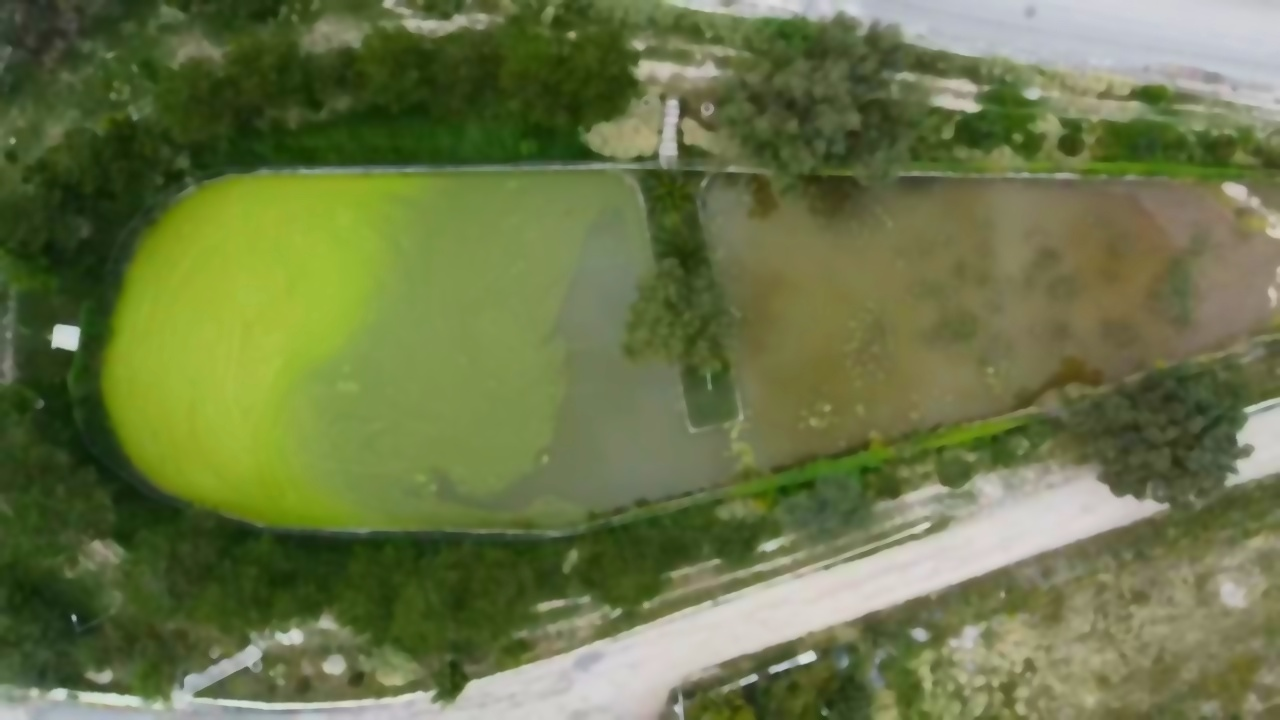
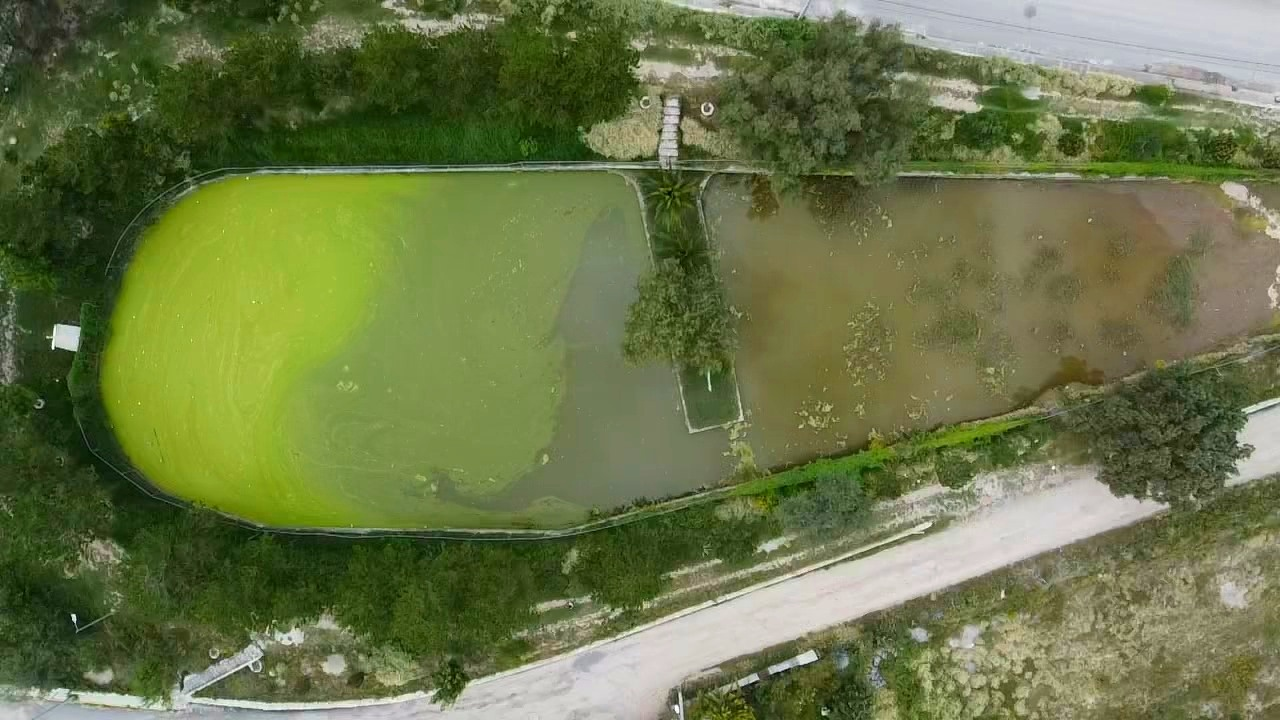
colores prueba 3

diff --git a/Back-End/Python Preprocesamiento/Elegir_color.py b/Back-End/Python Preprocesamiento/Elegir_color.py
@@ -1,81 +1,73 @@
 import cv2
 import numpy as np
 import sys
+import subprocess
 
+# Verificar y capturar argumentos de línea de comandos
 if len(sys.argv) > 3:
-    respuestas_colores = int(sys.argv[1])
-    respuestas_tamano = sys.argv[2]
-    ruta_imagen = sys.argv[3]
+    respuestas_colores = int(sys.argv[1])  # Cantidad de rangos de colores a seleccionar
+    respuestas_tamano = sys.argv[2]        # Tamaño del objeto de referencia (no utilizado en este código)
+    ruta_imagen = sys.argv[3]              # Ruta de la imagen a procesar
 else:
     print("No se proporcionaron argumentos suficientes.")
     sys.exit(1)
 
-# Cargar la imagen
-imagen = cv2.imread(ruta_imagen)
-if imagen is None:
-    print("Error al cargar la imagen.")
-    sys.exit(1)
-
 # Lista para almacenar los rangos de color en formato HSV
 rango_colores_hsv = []
+contador = 0
 
 # Variables globales para almacenar el color mínimo y máximo
 hsv_min = None
 hsv_max = None
 
-# Contador de rangos de colores seleccionados
-contador = 0
-
-# Cargar la imagen
-imagen = cv2.imread("C:/Users/jesus/Documents/TT2/Imagenes/jaguey.jpg")  # Reemplaza con la ruta de tu imagen
-if imagen is None:
-    print("Error al cargar la imagen.")
-    sys.exit(1)
-
-
+# Función para mostrar mensajes en la ventana de imagen
 def mostrar_mensaje(imagen, mensaje, duracion=1000):
     imagen_mensaje = imagen.copy()
     cv2.putText(imagen_mensaje, mensaje, (10, 30), cv2.FONT_HERSHEY_SIMPLEX, 1, (0, 255, 0), 2, cv2.LINE_AA)
     cv2.imshow("Selecciona los colores", imagen_mensaje)
-    cv2.waitKey(duracion)  # Mostrar el mensaje por un tiempo determinado
-
+    cv2.waitKey(duracion)
 
 # Función para manejar clics del mouse
 def seleccionar_color(event, x, y, flags, param):
     global hsv_min, hsv_max, contador, rango_colores_hsv
     if event == cv2.EVENT_LBUTTONDOWN:
-        # Obtén el color en el punto seleccionado
         color_bgr = imagen[y, x]
         color_hsv = cv2.cvtColor(np.uint8([[color_bgr]]), cv2.COLOR_BGR2HSV)[0][0]
 
         if hsv_min is None:
-            hsv_min = color_hsv  # Guarda el color mínimo
+            hsv_min = color_hsv
             print(f"Color mínimo seleccionado: {hsv_min}")
         elif hsv_max is None:
-            hsv_max = color_hsv  # Guarda el color máximo
-            print(f"Color máximo seleccionado: {hsv_max}")
-            # Agrega el rango seleccionado a la lista
-            rango_colores_hsv.append((hsv_min, hsv_max))
+            hsv_max = color_hsv
+            rango_colores_hsv.append((hsv_min.tolist(), hsv_max.tolist()))
+            print(f"Rango {contador + 1} guardado: Min = {hsv_min}, Max = {hsv_max}")
             contador += 1
-
-            # Mostrar mensaje en la ventana de imagen
             mostrar_mensaje(imagen, f"Rango {contador} guardado")
-
-            # Reinicia las variables para el siguiente rango
-            hsv_min, hsv_max = None, None
+            hsv_min, hsv_max = None, None  # Reiniciar para el siguiente rango
 
         if contador >= respuestas_colores:
-            print("Se han seleccionado todos los rangos de colores necesarios.")
             cv2.destroyAllWindows()
+            guardar_rangos()  # Llamar a la función para guardar los rangos
 
-# Configura la ventana y la función de clic
-cv2.namedWindow("Selecciona los colores")
+# Función para guardar los rangos en un archivo de texto
+def guardar_rangos():
+    with open("C:/Users/jesus/Documents/TT2/Back-End/Python Preprocesamiento/rangos_colores.txt", "w") as f:
+        for rango in rango_colores_hsv:
+            min_hsv = rango[0]
+            max_hsv = rango[1]
+            f.write(f"Min: {min_hsv}, Max: {max_hsv}\n")
+    
+    print("Rangos guardados en rangos_colores.txt")
+    subprocess.run(["python", "C:/Users/jesus/Documents/TT2/Back-End/Python Preprocesamiento/Filtrado y Saturacion.py", ruta_imagen])
+    
+# Cargar la imagen desde la ruta proporcionada y configurar la ventana
+imagen = cv2.imread(ruta_imagen)
+if imagen is None:
+    print(f"No se pudo cargar la imagen en la ruta: {ruta_imagen}")
+    sys.exit(1)
+
+cv2.imshow("Selecciona los colores", imagen)
 cv2.setMouseCallback("Selecciona los colores", seleccionar_color)
 
-# Muestra la imagen y espera las selecciones
-while contador < respuestas_colores:
-    cv2.imshow("Selecciona los colores", imagen)
-    if cv2.waitKey(1) & 0xFF == 27:  # Presiona 'Esc' para salir
-        break
-
+cv2.waitKey(0)
 cv2.destroyAllWindows()

diff --git a/Back-End/Python Preprocesamiento/Filtrado y Saturacion.py b/Back-End/Python Preprocesamiento/Filtrado y Saturacion.py
@@ -1,61 +1,37 @@
 import cv2
 import numpy as np
-import tkinter as tk
-from tkinter import filedialog
+import sys
+import subprocess
 
-# Crear una ventana oculta de tkinter
-root = tk.Tk()
-root.withdraw()  # Ocultar la ventana principal
-
-# Abrir el diálogo para seleccionar una imagen
-ruta_imagen = filedialog.askopenfilename(title='Selecciona una imagen', 
-                                         filetypes=[('Archivos de imagen', '*.jpg *.jpeg *.png *.bmp *.tiff')])
-
-# Verificar si se seleccionó una imagen
-if ruta_imagen:
-    # Cargar la imagen seleccionada usando OpenCV
-    imagen = cv2.imread(ruta_imagen)
-
-    if imagen is not None:
-        # Aplicar el filtro de desenfoque gaussiano
-        for i in range(10):
-            imagen_G = cv2.GaussianBlur(imagen, (5, 5), 0)
-            imagen_MB = cv2.medianBlur(imagen_G, 5)
-            imagen_B = cv2.bilateralFilter(imagen_MB, d=9, sigmaColor=75, sigmaSpace=75)
-    
-        # Convertir la imagen de BGR a HSV
-        imagen_hsv = cv2.cvtColor(imagen_B, cv2.COLOR_BGR2HSV)
-
-        # Multiplicar el canal de saturación por un factor para aumentarlo
-        factor_saturacion = 1.5  # Puedes ajustar este valor
-        imagen_hsv[:, :, 1] = np.clip(imagen_hsv[:, :, 1] * factor_saturacion, 0, 255)
-        
-        # Convertir la imagen de vuelta a BGR
-        imagen_saturada = cv2.cvtColor(imagen_hsv, cv2.COLOR_HSV2BGR)
-
-        # Crear ventanas con un tamaño personalizado
-        cv2.namedWindow('Imagen original', cv2.WINDOW_NORMAL)
-        cv2.resizeWindow('Imagen original', 600, 400)  # Cambia las dimensiones a tu gusto
-
-        cv2.namedWindow('Imagen Filtrada', cv2.WINDOW_NORMAL)
-        cv2.resizeWindow('Imagen Filtrada', 600, 400)  # Cambia las dimensiones a tu gusto
-
-        cv2.namedWindow('Imagen Saturada', cv2.WINDOW_NORMAL)
-        cv2.resizeWindow('Imagen Saturada', 600, 400)  # Cambia las dimensiones a tu gusto
-
-        # Mostrar las imágenes en las ventanas con el tamaño especificado
-        cv2.imshow('Imagen original', imagen)
-        cv2.imshow('Imagen Filtrada', imagen_B)
-        cv2.imshow('Imagen Saturada', imagen_saturada)
-        cv2.imwrite('C:/Users/jesus/Documents/TT2/Imagenes/ImagenFiltrada.jpg', imagen_B)
-        cv2.imwrite('C:/Users/jesus/Documents/TT2/Imagenes/ImagenSaturada.jpg', imagen_saturada)
-
-
-
-        # Esperar a que se cierre la ventana
-        cv2.waitKey(0)
-        cv2.destroyAllWindows()
-    else:
-        print("No se pudo cargar la imagen.")
+# Verificar que se reciben los argumentos
+if len(sys.argv) > 1:
+    ruta_imagen = sys.argv[1]
 else:
-    print("No se seleccionó ninguna imagen.")
+    print("No se proporcionaron argumentos.")
+    sys.exit(1)
+
+imagen=cv2.imread(ruta_imagen)
+
+for i in range(10):
+    imagen_G = cv2.GaussianBlur(imagen, (5, 5), 0)
+    imagen_MB = cv2.medianBlur(imagen_G, 5)
+    imagen_B = cv2.bilateralFilter(imagen_MB, d=9, sigmaColor=75, sigmaSpace=75)
+
+# Cargar y procesar la imagen (operaciones de filtrado y saturación)
+imagen = cv2.imread(ruta_imagen)
+if imagen is None:
+    print(f"No se pudo cargar la imagen en la ruta: {ruta_imagen}")
+    sys.exit(1)
+
+# Aplicar operaciones de filtrado (como ejemplo, aquí puedes aplicar filtros)
+imagen_hsv = cv2.cvtColor(imagen, cv2.COLOR_BGR2HSV)
+factor_saturacion = 1.5
+imagen_hsv[:, :, 1] = np.clip(imagen_hsv[:, :, 1] * factor_saturacion, 0, 255)
+imagen_saturada = cv2.cvtColor(imagen_hsv, cv2.COLOR_HSV2BGR)
+
+# Guardar la imagen saturada
+ruta_imagen_saturada = 'C:/Users/jesus/Documents/TT2/Imagenes/ImagenSaturada.jpg'
+cv2.imwrite(ruta_imagen_saturada, imagen_saturada)
+
+# Llamar a Detencion de color.py con la imagen saturada y los rangos HSV
+subprocess.run(["python", "C:/Users/jesus/Documents/TT2/Back-End/Python Preprocesamiento/Deteccion de color.py", ruta_imagen])

diff --git a/Back-End/Python Preprocesamiento/Deteccion de color.py b/Back-End/Python Preprocesamiento/Deteccion de color.py
@@ -1,44 +1,64 @@
-import cv2 
+import cv2
 import numpy as np
+import sys
 
-# Cargar la imagen
-img = cv2.imread("C:/Users/jesus/Documents/TT2/Imagenes/imagenSaturada.jpg")
+# Verificar y capturar argumentos
+if len(sys.argv) > 1:
+    ruta_imagen_saturada = sys.argv[1]
+else:
+    print("No se proporcionaron argumentos suficientes.")
+    sys.exit(1)
+
+# Cargar la imagen saturada
+img = cv2.imread(ruta_imagen_saturada)
+if img is None:
+    print(f"No se pudo cargar la imagen en la ruta: {ruta_imagen_saturada}")
+    sys.exit(1)
 
 # Convertir la imagen a HSV
 img_hsv = cv2.cvtColor(img, cv2.COLOR_BGR2HSV)
 
-# Rango para los marrones (entre rojos y amarillos)
-umbral_bajo_marron = np.array([10, 50, 50])   # Ajusta los valores para tonos marrones claros y oscuros
-umbral_alto_marron = np.array([30, 255, 255])
+# Leer los colores desde el archivo
+colores_hsv = []
+try:
+    with open("C:/Users/jesus/Documents/TT2/Back-End/Python Preprocesamiento/rangos_colores.txt", "r") as f:
+        for line in f:
+            line = line.strip()
+            if not line:
+                continue  # Saltar líneas vacías
+            # Extraer el color mínimo del rango
+            try:
+                min_part = line.split("], Max: ")[0]
+                color_hsv = min_part.split(": ")[1].strip()[1:-1].split(", ")
+                # Agregar el color como un array de NumPy
+                colores_hsv.append(np.array([int(x) for x in color_hsv]))
+            except (IndexError, ValueError) as e:
+                print(f"Línea mal formateada: {line}. Error: {e}")
+                continue  # Saltar la línea si hay un error
 
-# Rango para los verdes claros (Hue en el rango de los verdes, pero con alto valor y saturación)
-umbral_bajo_verde_claro = np.array([36, 100, 150])  # Más saturados y con mayor brillo
-umbral_alto_verde_claro = np.array([85, 255, 255])  # Mantiene el rango de verde, pero excluye los oscuros
+except FileNotFoundError:
+    print("El archivo rangos_colores.txt no se encontró.")
+    sys.exit(1)
+except Exception as e:
+    print(f"Error inesperado al procesar el archivo de colores: {e}")
+    sys.exit(1)
 
-# Crear la máscara para los verdes claros
-mask_verde_claro = cv2.inRange(img_hsv, umbral_bajo_verde_claro, umbral_alto_verde_claro)
-
-# Crear la máscara para los marrones
-mask_marron = cv2.inRange(img_hsv, umbral_bajo_marron, umbral_alto_marron)
-
-# Combinar las máscaras (mantener marrones y verdes claros)
-mask_total = cv2.bitwise_or(mask_marron, mask_verde_claro)
+# Crear una máscara combinada para los colores
+mask_total = None
+for color in colores_hsv:
+    # Definir un rango alrededor del color seleccionado (puedes ajustar la tolerancia)
+    tolerancia = 10
+    hsv_min = np.clip(color - tolerancia, 0, 255)
+    hsv_max = np.clip(color + tolerancia, 0, 255)
+    mask = cv2.inRange(img_hsv, hsv_min, hsv_max)
+    mask_total = mask if mask_total is None else cv2.bitwise_or(mask_total, mask)
 
 # Aplicar la máscara a la imagen original
 resultado = cv2.bitwise_and(img, img, mask=mask_total)
 
-# Crear ventanas con un tamaño personalizado
-cv2.namedWindow('Original', cv2.WINDOW_NORMAL)
-cv2.resizeWindow('Original', 600, 400)
-
-cv2.namedWindow('Resultado', cv2.WINDOW_NORMAL)
-cv2.resizeWindow('Resultado', 600, 400)
-
-# Mostrar las imágenes original y resultante
+# Mostrar y guardar la imagen resultante
 cv2.imshow('Original', img)
 cv2.imshow('Resultado', resultado)
-
-# Guardar la imagen resultante
 cv2.imwrite('C:/Users/jesus/Documents/TT2/Imagenes/Seleccion.jpg', resultado)
 
 cv2.waitKey(0)
